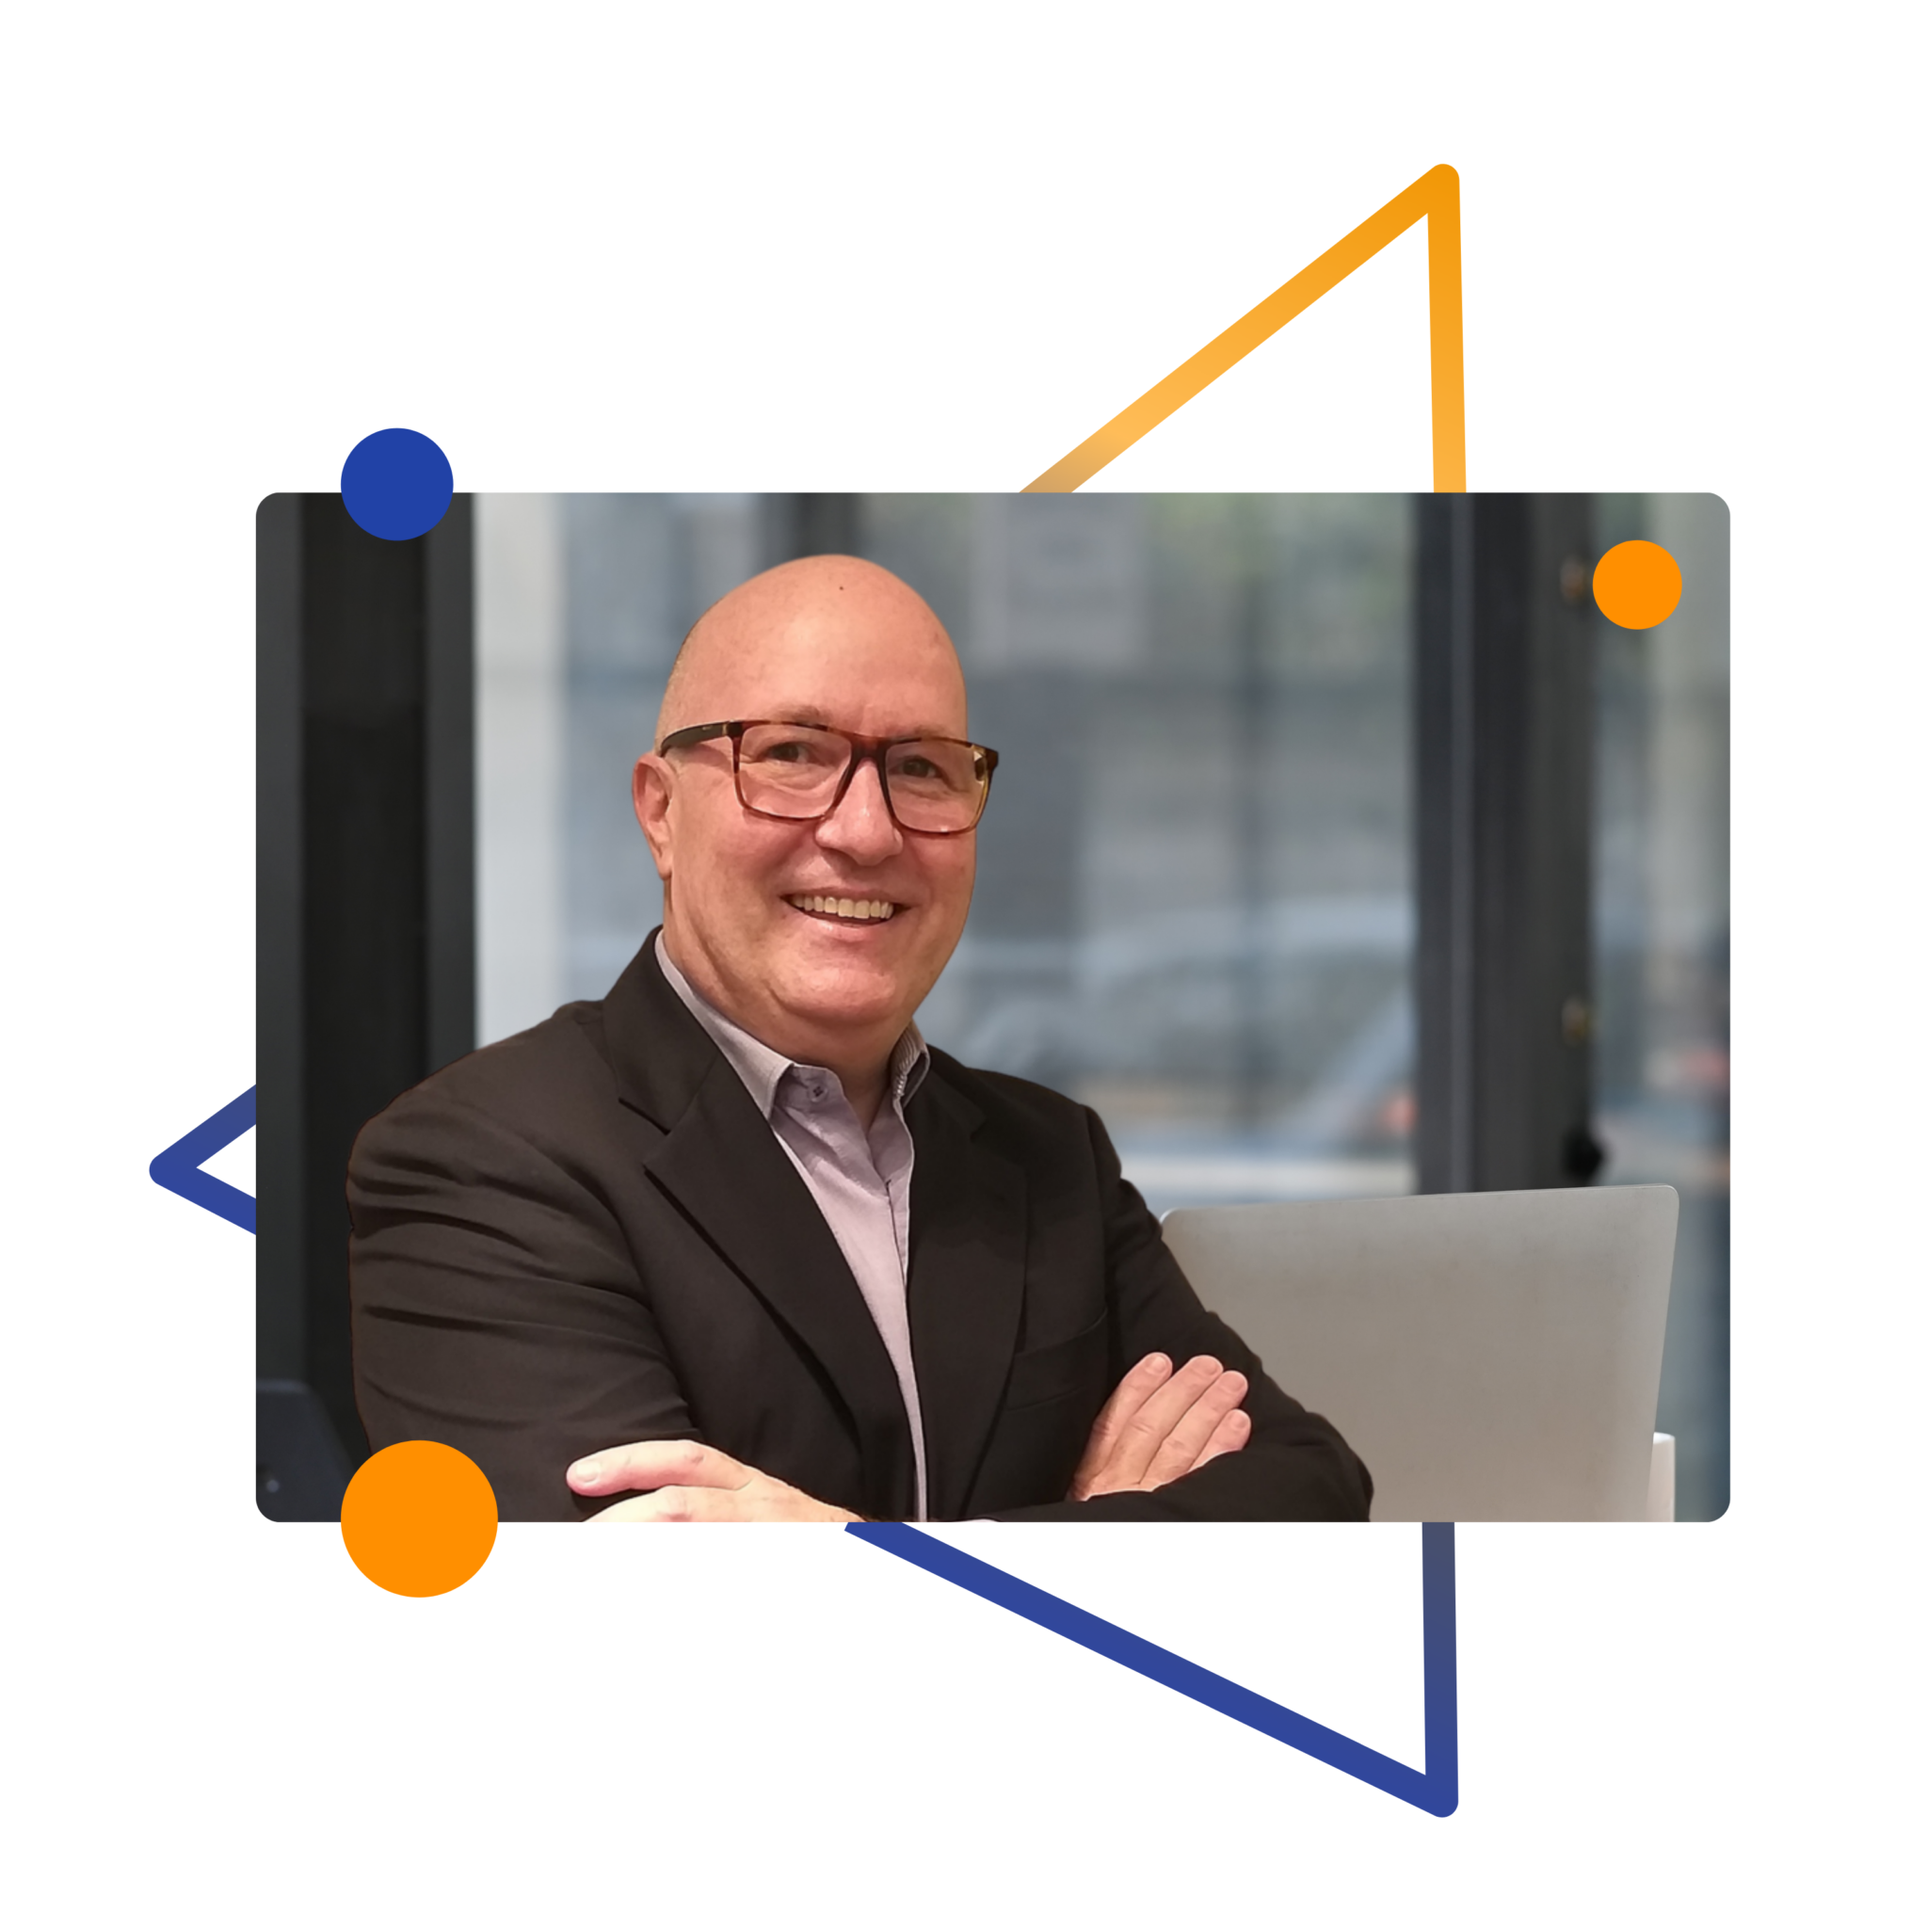
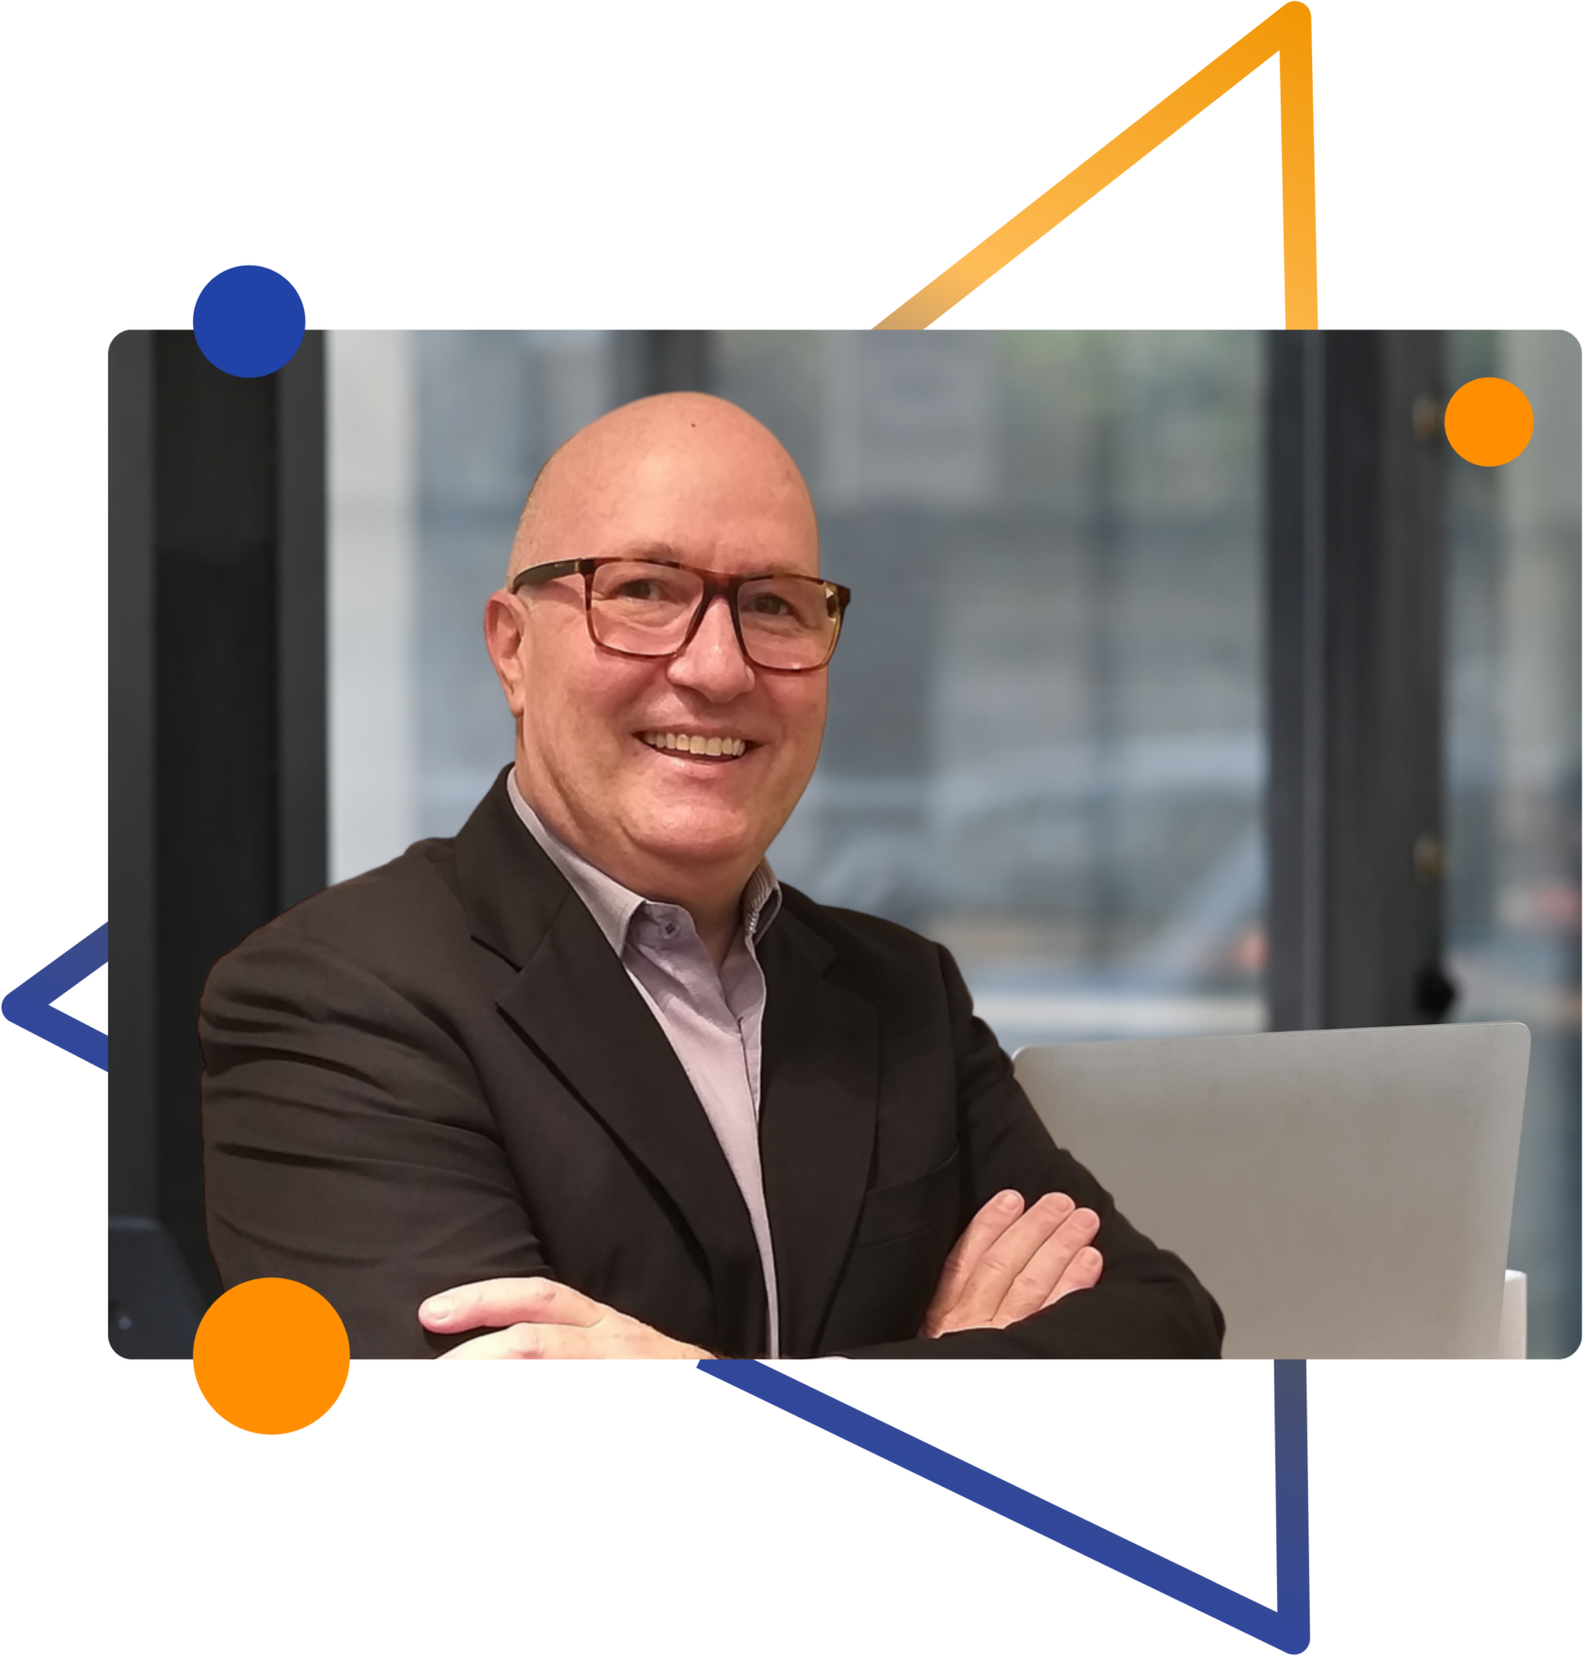
ajustes

diff --git a/index.html b/index.html
@@ -149,7 +149,7 @@
         </div>
         <div class="row d-flex align-items-center">
           <div class="col-lg-4">
-            <img src="img/img-instrutor.png" class="img-fluid mx-auto d-block" alt="">
+            <img src="img/img-instrutor.jpg" class="img-fluid mx-auto d-block" alt="">
           </div>
           <div class="col-lg-8 lead">
             <p>Selomar Breda é graduado em Administração e possui MBA Executivo em Gestão Empresarial. Profissional
@@ -177,7 +177,7 @@
         </div>
         <div class="row d-flex align-items-center">
           <div class="col-lg-4">
-            <img src="img/img-suporte.png" class="img-fluid mx-auto d-block" alt="">
+            <img src="img/img-suporte.jpg" class="img-fluid mx-auto d-block" alt="">
           </div>
           <div class="col-lg-8 lead">
             <p>Patrícia Fonseca é graduada em Ciências Sociais e pós-graduada em Antropologia. É Life Coach,
@@ -206,19 +206,19 @@
           </div>
         </div>
         <div class="row">
-          <div class="col-lg-12 p-5 border border-roxo border-3 rounded bg-dark  text-center">
+          <div class="col-lg-12 p-5 border border-roxo-claro border-32rounded bg-dark  text-center">
             <h2 class="roboto-bold">Introdução</h2>
             <p>Apresentação do programa, benefícios e estrutura; histórico sobre comportamento humano; introdução à
               metodologia DISC. </p>
           </div>
-          <div class="col-lg-4 p-5 border border-roxo border-3 rounded bg-dark text-center">
+          <div class="col-lg-4 p-5 border border-roxo-claro border-2 rounded bg-dark text-center">
             <h2 class="roboto-bold">Índices e gráficos e suas aplicabilidades</h2>
             <p>Análise de gráficos e indicadores situacionais (pique para o trabalho, flexibilidade, automotivação,
               moral, autoestima, entre outros); análise de gráficos com 24 indicadores de competências (tolerância,
               capacidade de ouvir, planejamento, organização, dinamismo, multitarefas); análise de pontos fortes e de
               melhoria; análise do ambiente de trabalho; apresentação de cases de avaliações comportamentais.</p>
           </div>
-          <div class="col-lg-4 p-5 border border-roxo border-3 rounded bg-dark text-center">
+          <div class="col-lg-4 p-5 border border-roxo-claro border-2 rounded bg-dark text-center">
             <h2 class="roboto-bold">Liderança</h2>
             <p>
               Os quatro perfis de liderança DISC; combinações de perfis de liderança; estilos de liderança e ambientes;
@@ -226,15 +226,15 @@
               comportamentais sob o ponto de vista da liderança.
             </p>
           </div>
-          <div class="col-lg-4 p-5 border border-roxo border-3 rounded bg-dark text-center">
+          <div class="col-lg-4 p-5 border border-roxo-claro border-2 rounded bg-dark text-center">
             <h2 class="roboto-bold">Perfis Comportamentais</h2>
             <p>
               Os quatro perfis comportamentais DISC; combinações; habilidades, relacionamentos, tomada de decisões;
               vantagens e desvantagens.
             </p>
           </div>
-          <div class="col-lg-12 p-5 border border-roxo border-3 rounded bg-dark ">
-            <h2 class="roboto-bold">E mais: </h2>
+          <div class="col-lg-12 p-5 border border-roxo-claro border-3 rounded bg-dark ">
+            <h2 class="roboto-bold mb-3">E mais: </h2>
             <div class="row">
 
               <div class="col-lg-6">
@@ -310,7 +310,7 @@
           </div>
         </div>
       </div> -->
-    <section class="py-5 parallax-section " id="frase">
+    <section class="py-5 parallax-section d-flex align-items-center " id="frase">
       <!-- Imagem de fundo com parallax -->
       <div class="parallax-bg"></div>
 
@@ -347,10 +347,7 @@
           </div>
         </div>
 
-
         <div class="row text-center">
-
-
           <div id="carouselExampleAutoplaying" class="carousel slide" data-bs-ride="carousel">
             <div class="carousel-inner">
               <div class="carousel-item active">
@@ -401,9 +398,6 @@
               <span class="visually-hidden">Next</span>
             </button>
           </div>
-
-
-
 
         </div>
 
@@ -578,7 +572,8 @@
     </section>
 
     <!-- FOOTER -->
-    <section class="py-5 bg-roxo" id="frase">
+    <section class="py-5 bg-roxo" id="frase" >
+
       <div class="container pb-5">
         <div class="row">
           <div class="col-lg-12 text-center py-5 ">

diff --git a/css/default.css b/css/default.css
@@ -156,10 +156,12 @@ html {
 }
 
 
+
 .parallax-section {
   position: relative;
   overflow: hidden;
   background: transparent;
+  height: 400px;
 }
 
 .parallax-bg {
@@ -174,7 +176,6 @@ html {
   background-repeat: no-repeat;
   background-size: cover;
   z-index: 0;
-  transform: translateZ(0);
 }
 
 .parallax-overlay {
@@ -183,7 +184,7 @@ html {
   left: 0;
   width: 100%;
   height: 100%;
-  background-color: rgba(125, 44, 124, 0.9);
+  background-color: rgba(125, 44, 124, 0.7);
   /* Overlay de 50% com cor roxa */
   z-index: 1;
 }
